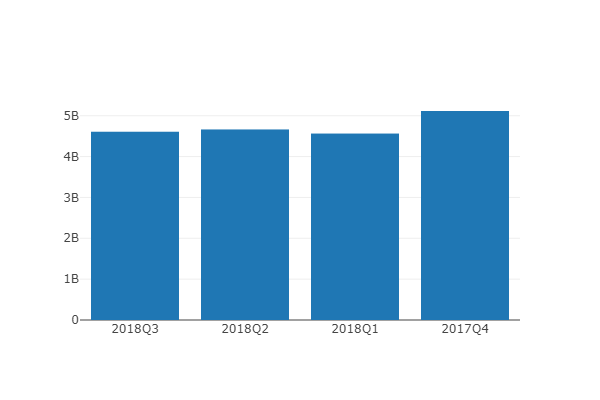
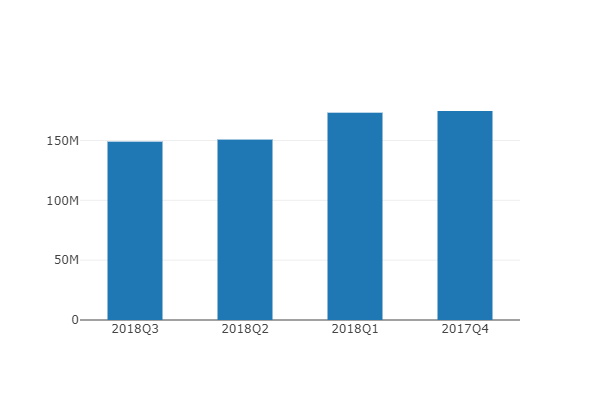
financial data bars and chart restyled

diff --git a/templates/stock.html b/templates/stock.html
@@ -117,7 +117,7 @@
         </div>
 
         <div class="financial-chart-container">
-                <div>
+                <div class="fiancial-chart-style">
                         <div class="book-header">
                                 Zyski kwartalne
                         </div>
@@ -127,7 +127,7 @@
 
                 </div>
                 {% if sales_status %}
-                <div>
+                <div class="fiancial-chart-style">
                         <div class="book-header">
                                 Przychody kwartalne
                         </div>
@@ -137,7 +137,7 @@
 
                 </div>
                 {% endif %}
-                <div>
+                <div class="fiancial-chart-style">
                         <div class="book-header">
                                 Zyski roczne
                         </div>
@@ -147,7 +147,7 @@
 
                 </div>
                 {% if sales_status %}
-                <div>
+                <div class="fiancial-chart-style">
                         <div class="book-header">
                                 Przychody roczne
                         </div>
@@ -159,18 +159,18 @@
                 {% endif %}
 
                 {% if debt_status %}
-                <div>
+                <div class="fiancial-chart-style">
                         <div class="book-header">
-                                Zobowiązania i rezerwy na zobowiązania kwartalne
+                                Zobowiązania i rezerwy na zobowiązania (kwartalne)
                         </div>
                         <div>
                                 <img src="{{url_for('static', filename='debt_q.png')}}">
                         </div>
 
                 </div>
-                <div>
+                <div class="fiancial-chart-style">
                         <div class="book-header">
-                                Zobowiązania i rezerwy na zobowiązania roczne
+                                Zobowiązania i rezerwy na zobowiązania (roczne)
                         </div>
                         <div>
                                 <img src="{{url_for('static', filename='debt_y.png')}}">
@@ -179,7 +179,7 @@
                 </div>
                 {% endif %}
                 {% if capital_status %}
-                <div>
+                <div class="fiancial-chart-style">
                         <div class="book-header">
                                 Kapitał własny(kwartał)
                         </div>
@@ -188,7 +188,7 @@
                         </div>
 
                 </div>
-                <div>
+                <div class="fiancial-chart-style">
                         <div class="book-header">
                                 Kapitał własny (roczne)
                         </div>

diff --git a/static/css/styl.css b/static/css/styl.css
@@ -412,3 +412,7 @@ a:visited{
     flex-wrap: wrap;
 }
 
+.fiancial-chart-style{
+    padding: 5%;
+    margin: -5%;
+}

diff --git a/stockanalyzer.py b/stockanalyzer.py
@@ -133,7 +133,11 @@ def stock(stockval):
     layout_reversed = go.Layout(
             xaxis=dict(
                 autorange='reversed'
-            )
+            ),
+            bargap =0.5
+    )
+    bars_style = go.Layout(
+            bargap =0.5
     )
 
     profit_data_y = [profit_data_net_y, profit_data_gross_y] 
@@ -145,7 +149,7 @@ def stock(stockval):
         x=dates[0:4], 
         y=sales[0]
         )]
-        fig_sales = go.Figure(data=sales_q)
+        fig_sales = go.Figure(data=sales_q, layout=bars_style)
         pio.write_image(fig_sales, 'static/sales_q.png',width=600, height=400)
         sales_y = [go.Bar(
         x=years, 
@@ -161,7 +165,7 @@ def stock(stockval):
         x=dates[0:4], 
         y=debt[0]
         )]
-        fig_sales = go.Figure(data=debt_q)
+        fig_sales = go.Figure(data=debt_q, layout=bars_style)
         pio.write_image(fig_sales, 'static/debt_q.png',width=600, height=400)
         debt_y = [go.Bar(
         x=years, 
@@ -178,7 +182,7 @@ def stock(stockval):
         x=dates[0:4], 
         y=capital[0]
         )]
-        fig_sales = go.Figure(data=capital_q)
+        fig_sales = go.Figure(data=capital_q, layout=bars_style)
         pio.write_image(fig_sales, 'static/capital_q.png',width=600, height=400)
         capital_y = [go.Bar(
         x=years, 
